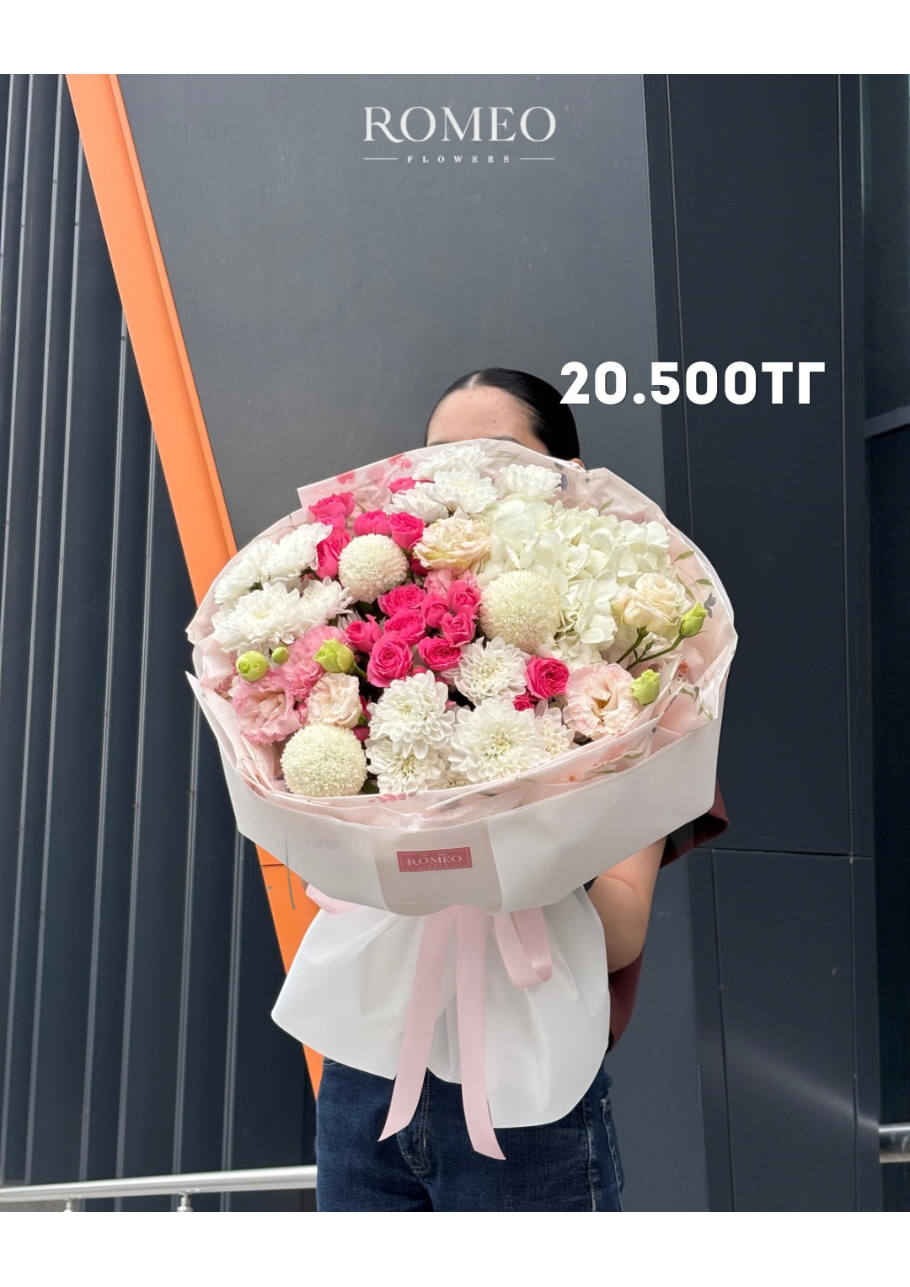
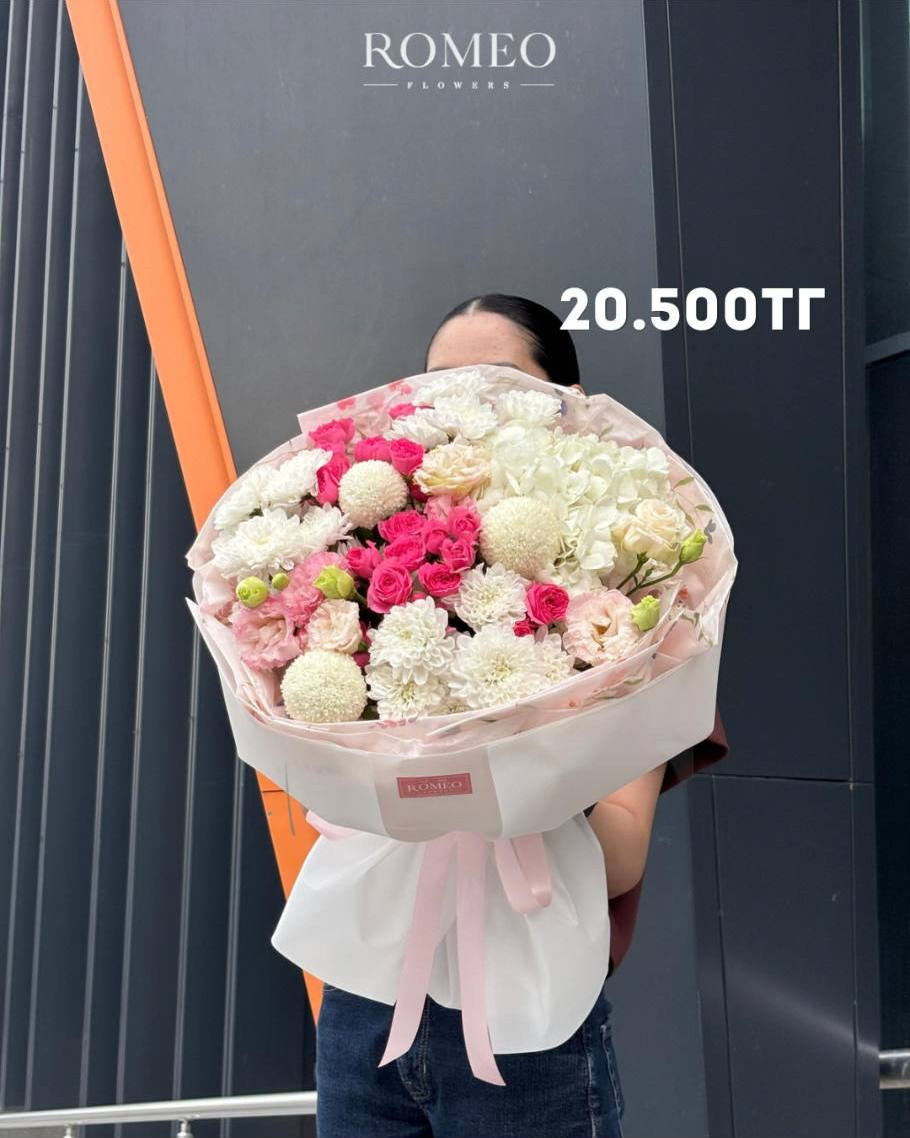
Каталог ко Дню учителя: обрезаны белые поля фото

diff --git a/uchitel/index.html b/uchitel/index.html
@@ -31,7 +31,7 @@
   header h1{margin:0;font-weight:700;font-size:20px;letter-spacing:2px;text-transform:uppercase}
   header p{margin:8px 0 0;font-size:15px;font-weight:300;line-height:1.5}
   .item{background:var(--card);border-radius:16px;overflow:hidden;margin-top:16px;border:1px solid #dcd6ce}
-  .item img{display:block;width:100%;height:auto;aspect-ratio:910/1287;background:#e3ddd5}
+  .item img{display:block;width:100%;height:auto;aspect-ratio:910/1136;background:#e3ddd5}
   .row{display:flex;align-items:center;justify-content:space-between;gap:12px;padding:12px 14px}
   .num{font-weight:700;font-size:15px;letter-spacing:1px}
   a.order{background:var(--green);color:#fff;text-decoration:none;border-radius:12px;padding:12px 16px;
